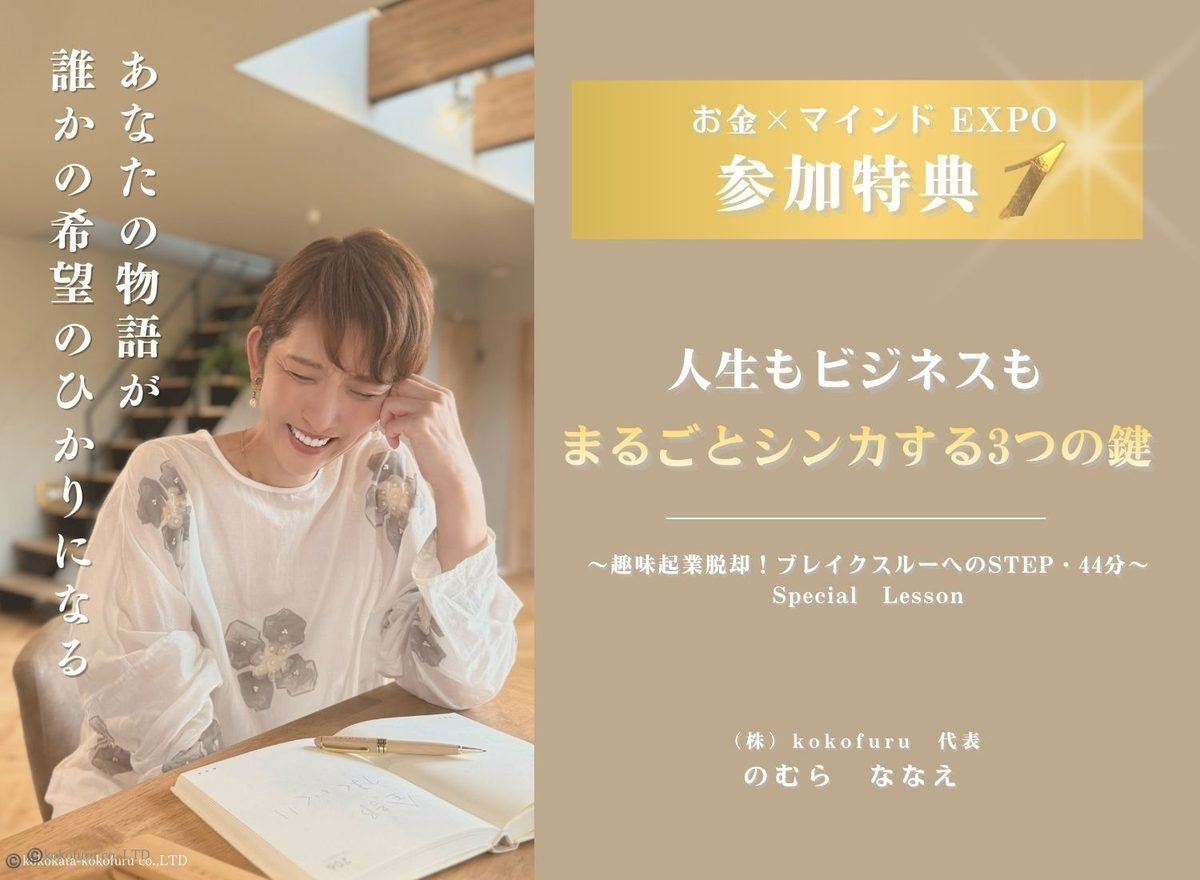
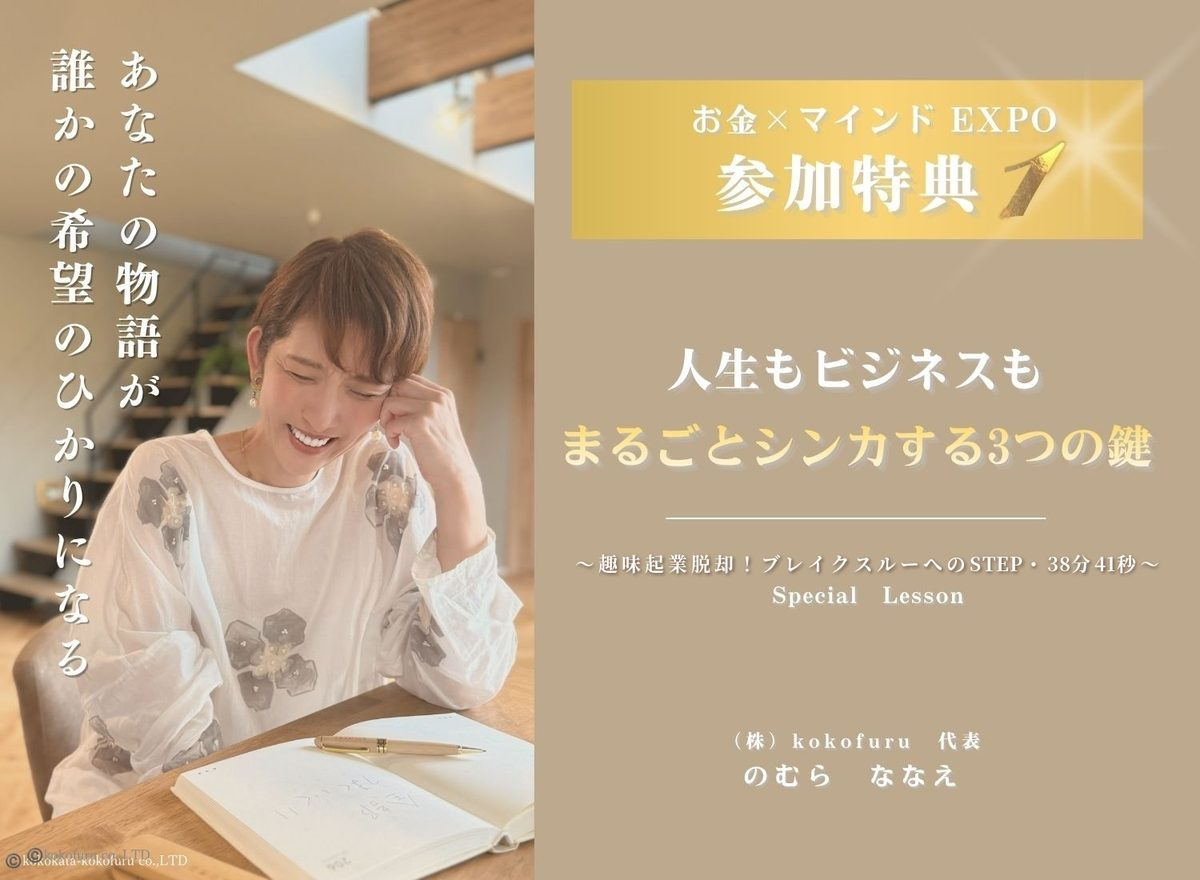
特典1・特典2のサムネイル内の動画時間を修正
Claude-Session: https://claude.ai/code/session_01BNJ7A7HiY89mat7vTkHu19

Changed region(s): [[0.4933, 0.6136, 0.9558, 0.675]]

diff --git a/selfko-omikuji/okane-mind-expo/index.html b/selfko-omikuji/okane-mind-expo/index.html
@@ -199,7 +199,7 @@
     <article class="card">
       <p class="num">特典 1</p>
       <a class="thumb" href="https://vimeo.com/1248875226/e62a7eb2e6" target="_blank" rel="noopener">
-        <img src="img/tokuten1.jpg" width="1200" height="880" alt="参加特典1 人生もビジネスも丸ごと進化する3つの鍵">
+        <img src="img/tokuten1.jpg?v=2" width="1200" height="880" alt="参加特典1 人生もビジネスも丸ごと進化する3つの鍵">
       </a>
       <h2>人生もビジネスも丸ごと進化する3つの鍵</h2>
       <p class="time">講義動画・38分41秒</p>
@@ -210,7 +210,7 @@
     <article class="card">
       <p class="num">特典 2</p>
       <a class="thumb" href="https://vimeo.com/1248876284/8392e6e7b0" target="_blank" rel="noopener">
-        <img src="img/tokuten2.jpg" width="1200" height="880" alt="参加特典2 昭和世代の、これからのお金">
+        <img src="img/tokuten2.jpg?v=2" width="1200" height="880" alt="参加特典2 昭和世代の、これからのお金">
       </a>
       <h2>昭和世代の、これからのお金</h2>
       <p class="desc">老後のお金の不安を軽くする、一生モノの稼ぐ力</p>
